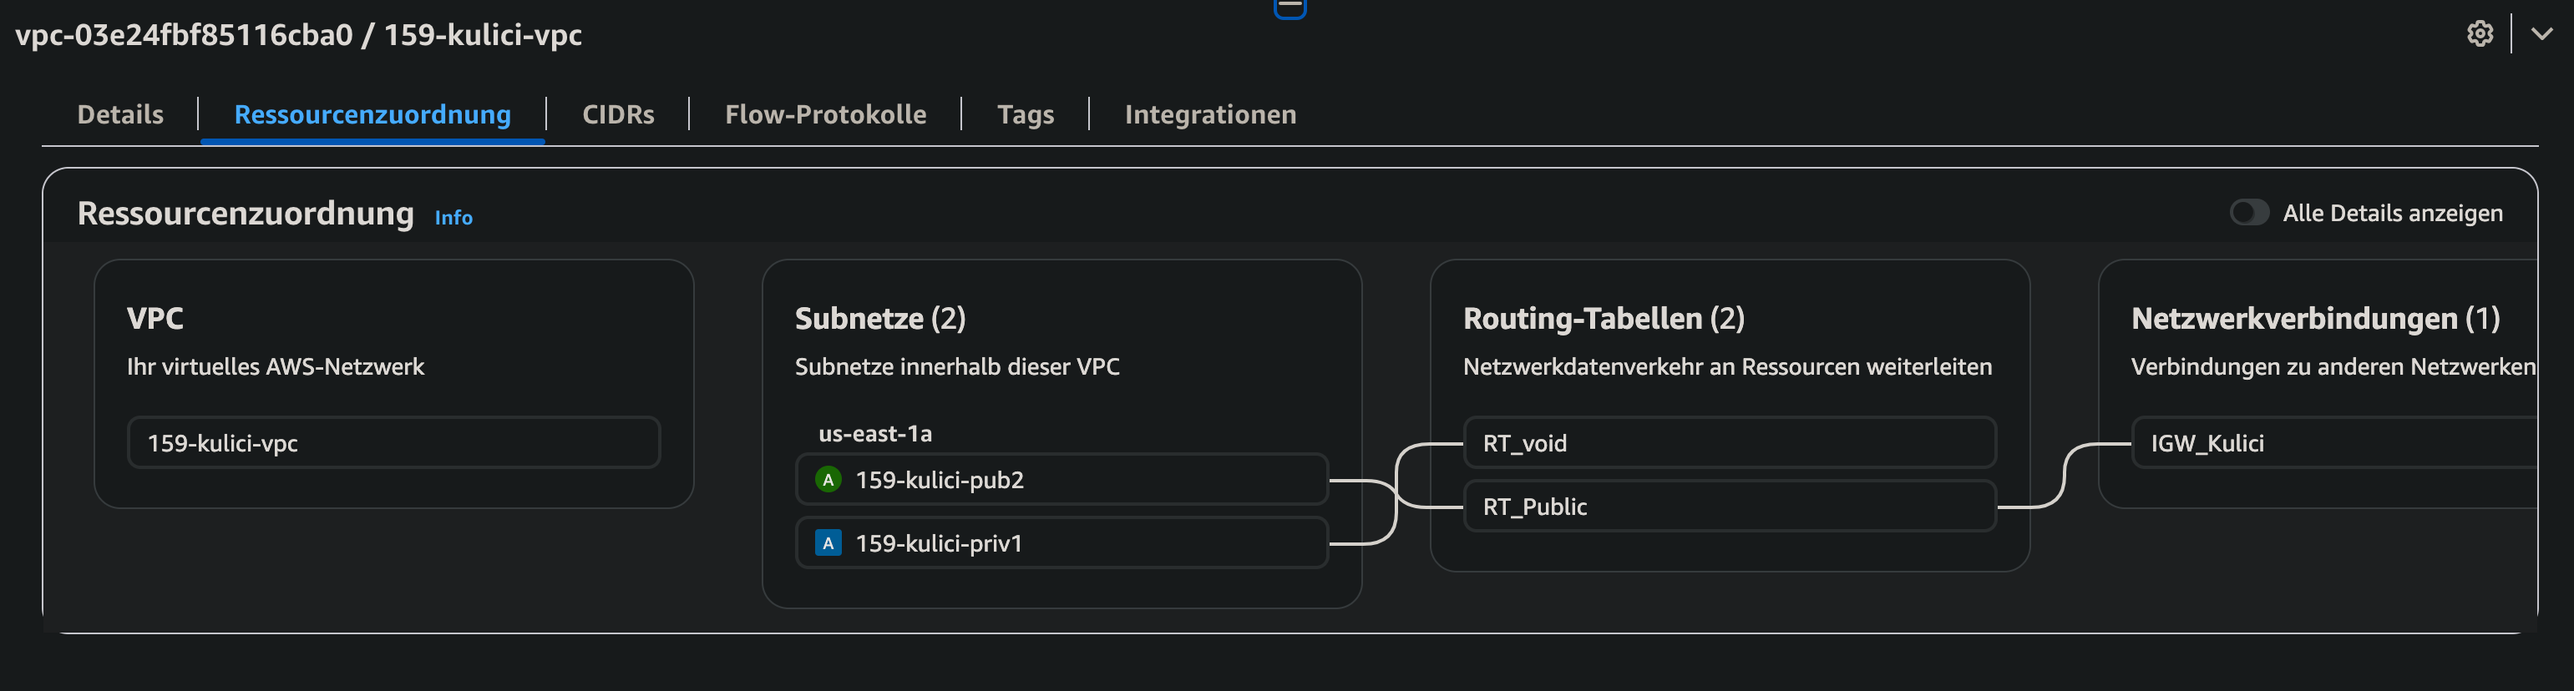
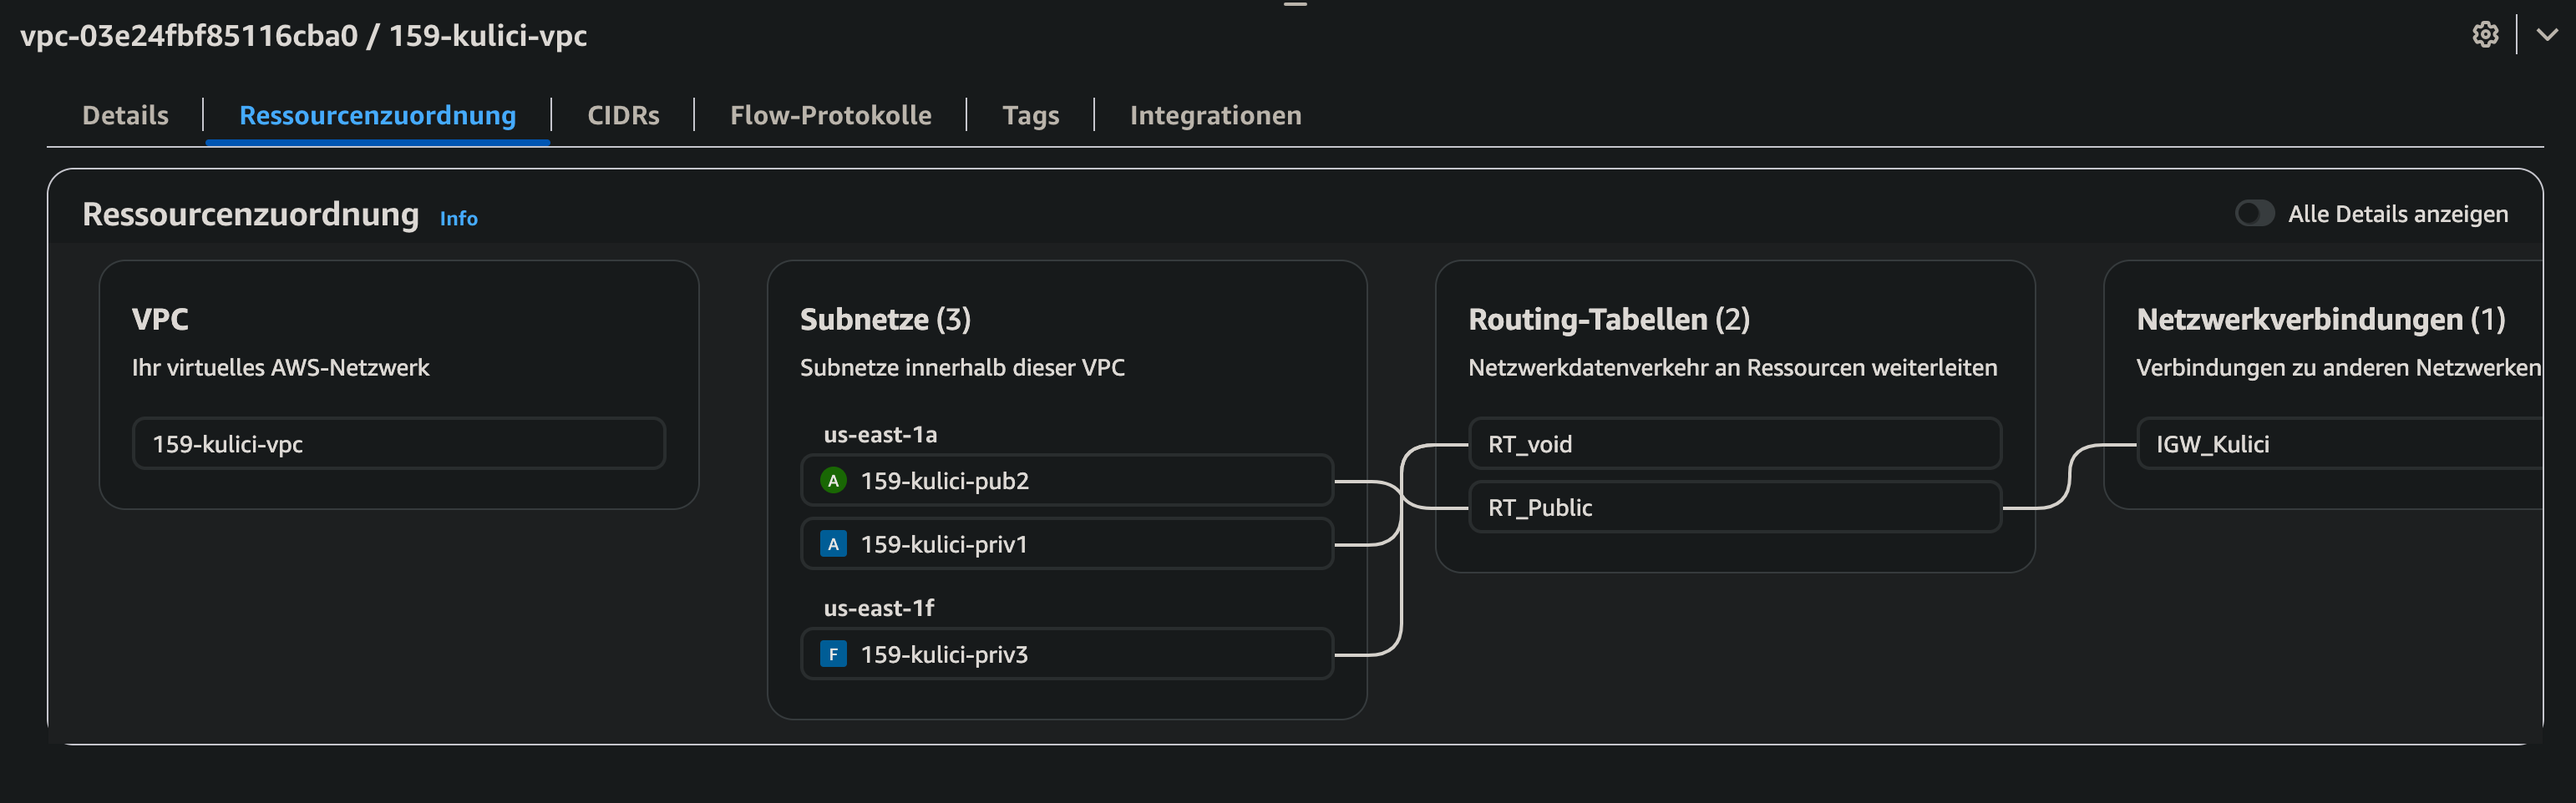
push local changes from

diff --git a/02_AWS-Umgebung/infrastructure.md b/02_AWS-Umgebung/infrastructure.md
@@ -10,7 +10,7 @@ Hier wird die AWS Infrastruktur dokumentiert.
 
 | ID                    | Name           | Anzahl Subnetze |
 | --------------------- | -------------- | --------------- |
-| vpc-03e24fbf85116cba0 | 159-kulici-vpc | 2               |
+| vpc-03e24fbf85116cba0 | 159-kulici-vpc | 3               |
 
 ### Subnetze
 
@@ -18,6 +18,7 @@ Hier wird die AWS Infrastruktur dokumentiert.
 | ------------------------ | ---------------- | ------------------------------------- |
 | subnet-0ff8f6eeae43051a6 | 159-kulici-pub2  | öffentlich zugängliches Subnetz       |
 | subnet-0abccdfa3659d4edf | 159-kulici-priv1 | nicht öffentlich zugängliches Subnetz |
+| subnet-052c0cbadd9f773e1 | 159-kulici-priv3 | nicht öffentlich zugängliches Subnetz |
 
 ### Überblick
 
@@ -37,17 +38,19 @@ Das AWS Managed AD wird im privaten Subnetz deployed während die restlichen Ser
 
 | ID  | Name      | Typ                          | Port        | Protocol | Quelle      |
 | --- | --------- | ---------------------------- | ----------- | -------- | ----------- |
+|     |           | **Windows Server**           |             |          |             |
 |     | SG-Server | RDP                          | 3389        | TCP      | 0.0.0.0     |
 |     | SG-Server | LDAP                         | 389         | TCP/UDP  | 10.0.1.0/24 |
 |     | SG-Server | LDAPS                        | 636         | TCP      | 10.0.1.0/24 |
 |     | SG-Server | Kerberos                     | 88          | TCP/UDP  | 10.0.1.0/24 |
 |     | SG-Server | SMB                          | 445         | TCP      | 10.0.1.0/24 |
 |     | SG-Server | DNS                          | 53          | TCP/UDP  | 10.0.1.0/24 |
-|     | SG-Server | ICMP                         | -           | ICMP     | 0.0.0.0     |
+|     | SG-Server | ICMP                         | -           | ICMP     | 0.0.0.0/0   |
 |     | SG-Server | Global Catalog               | 3268        | TCP      | 10.0.1.0/24 |
 |     | SG-Server | Global Catalog SSL           | 3269        | TCP      | 10.0.1.0/24 |
 |     | SG-Server | Kerberos Password Change/Set | 464         | TCP/UDP  | 10.0.1.0/24 |
 |     |           |                              |             |          |             |
+|     |           | **Windows Client**           |             |          |             |
 |     | SG-Client | RDP                          | 3389        | TCP      | 0.0.0.0     |
 |     | SG-Client | Kerberos                     | 88          | TCP/UDP  | 10.0.1.0/24 |
 |     | SG-Client | NetBIOS Session Service      | 139         | TCP      | 10.0.1.0/24 |
@@ -55,15 +58,15 @@ Das AWS Managed AD wird im privaten Subnetz deployed während die restlichen Ser
 |     | SG-Client | DNS                          | 53          | TCP/UDP  | 10.0.1.0/24 |
 |     | SG-Client | SMB                          | 445         | TCP      | 10.0.1.0/24 |
 |     | SG-Client | RPC                          | 49152-65535 | TCP      | 10.0.1.0/24 |
-|     | SG-Client | ICMP                         | -           | ICMP     | 10.0.1.0/24 |
+|     | SG-Client | ICMP                         | -           | ICMP     | 0.0.0.0/0   |
 
 ### Hostnames
 
-| Hostname | Betriebssystem | Security Group | Security Group ID |
-| -------- | -------------- | -------------- | ----------------- |
-| dc01     | Windows Server | SG-Server      |                   |
-| client   | Windows 10     | SG-Client      |                   |
-|          |                |                |                   |
+| Hostname | Betriebssystem                 | Security Group | Security Group ID    |
+| -------- | ------------------------------ | -------------- | -------------------- |
+| dc01     | Windows Server 2025 Datacenter | SG-Server      | sg-0ea971cd6cc8fafdb |
+| client   | Windows 10                     | SG-Client      | sg-0fe0db59dd8c6ffec |
+
 
 *Die Security Groups werden nach der [Planung](../01_Vorbereitung/planung.md#5-aws-sicherheitsgruppen) erstellt.*
 
